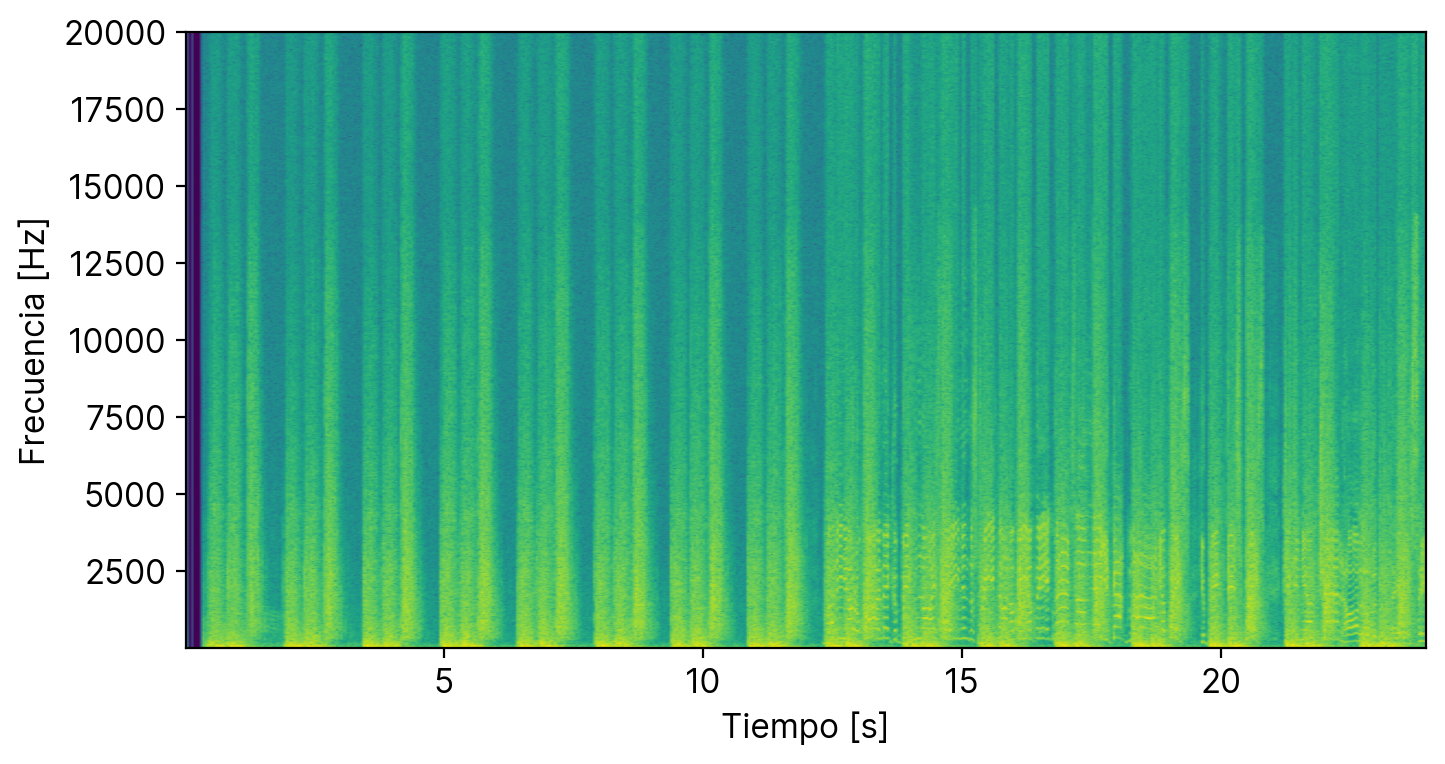
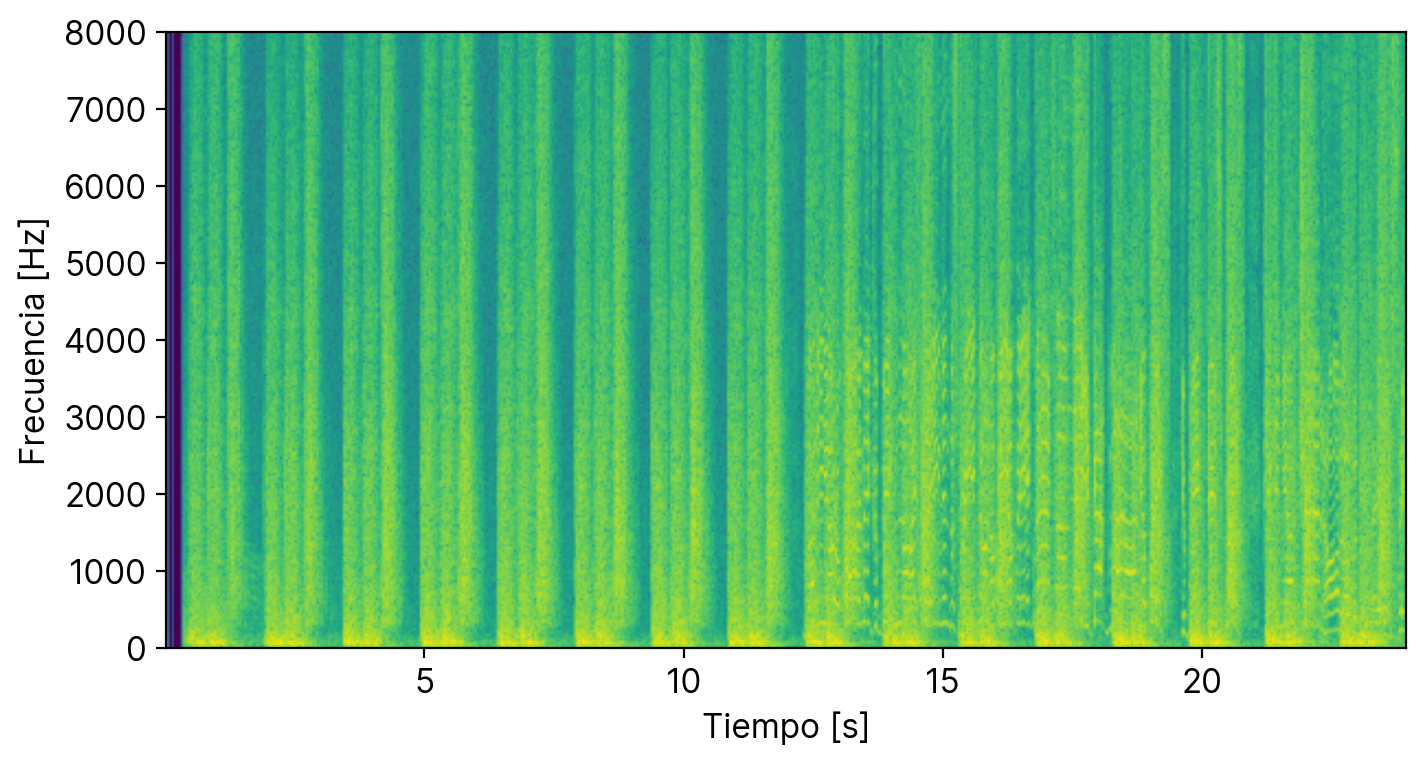
Added triangular and rectangular window shape

diff --git a/tp/main.py b/tp/main.py
@@ -120,10 +120,16 @@ def freq_domain():
     freq_plot(48000, filter1_h, "filter1_h_fft", f_max=2000)
     freq_plot(48000, filter2_h, "filter2_h_fft", f_max=8000)
 
+    # Formas de ventana
+    # 'boxcar': rectangular
+    # 'bartlett': triangular
+    # https://en.wikipedia.org/wiki/Window_function
+
     for i in [512, 1024, 2048, 4096]:
-        for window in ['hann', 'hamming', 'blackman']:
+        for window in ['boxcar', 'bartlett', 'hann', 'hamming']:
             spectogram_plot(file1_fs, file1_data, f"cancion1_espectograma_{window}_{i:04d}", N=i, win=window)
-            spectogram_plot(file2_fs, file2_data, f"cancion2_espectograma_{window}_{i:04d}", t=6, N=i, win=window)
+            spectogram_plot(file2_fs, file2_data,
+                            f"cancion2_espectograma_{window}_{i:04d}", t=6, N=i, win=window, ylim=[0, 8000])
 
 time_domain()
 freq_domain()
